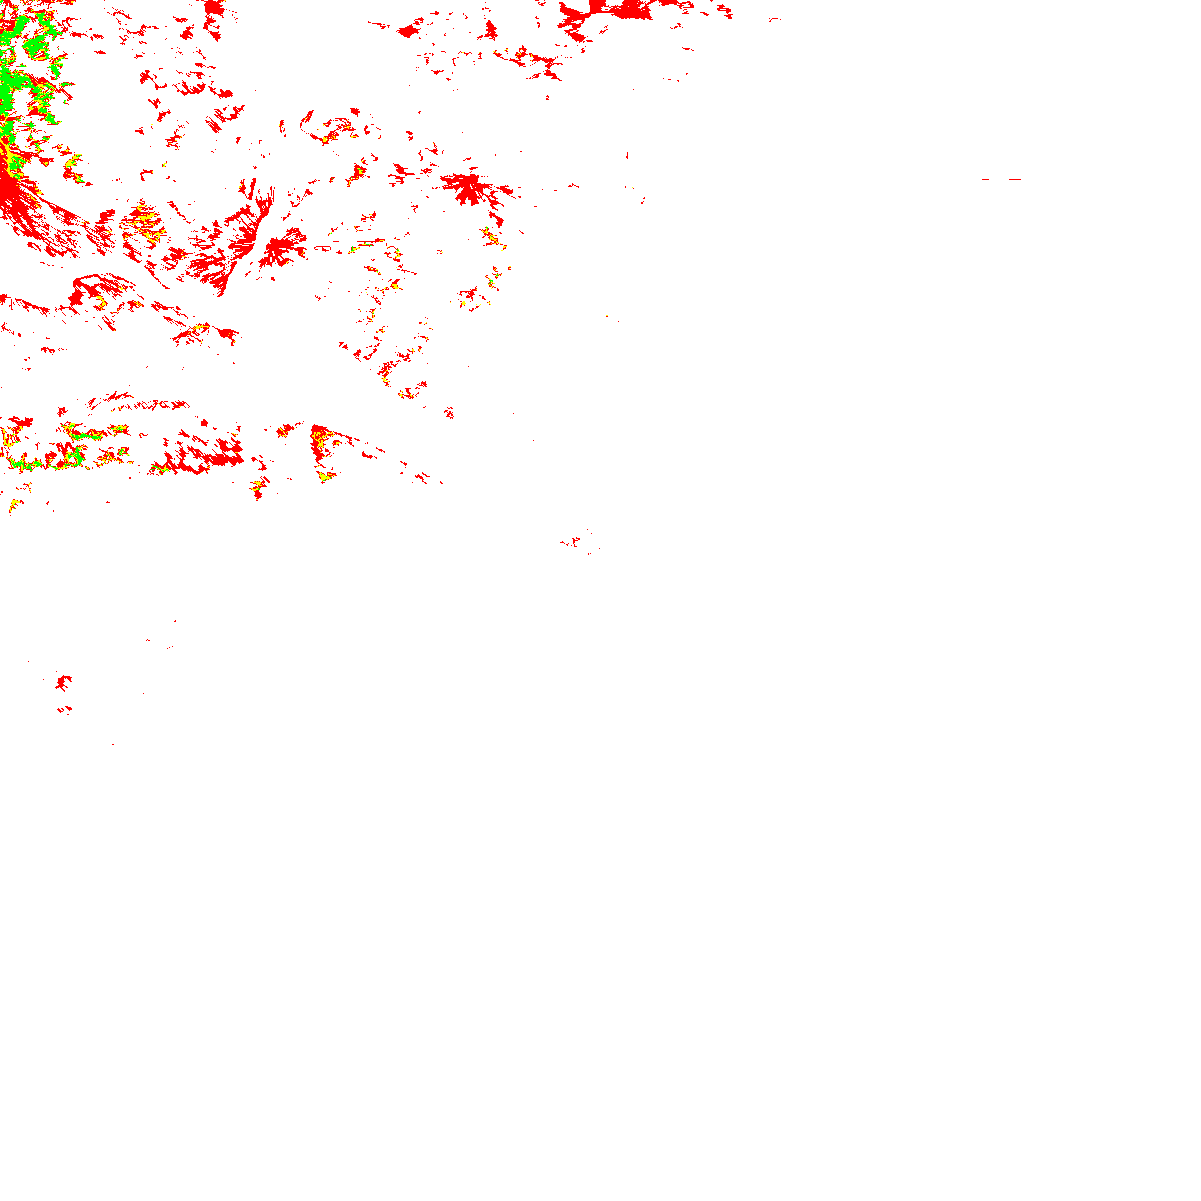
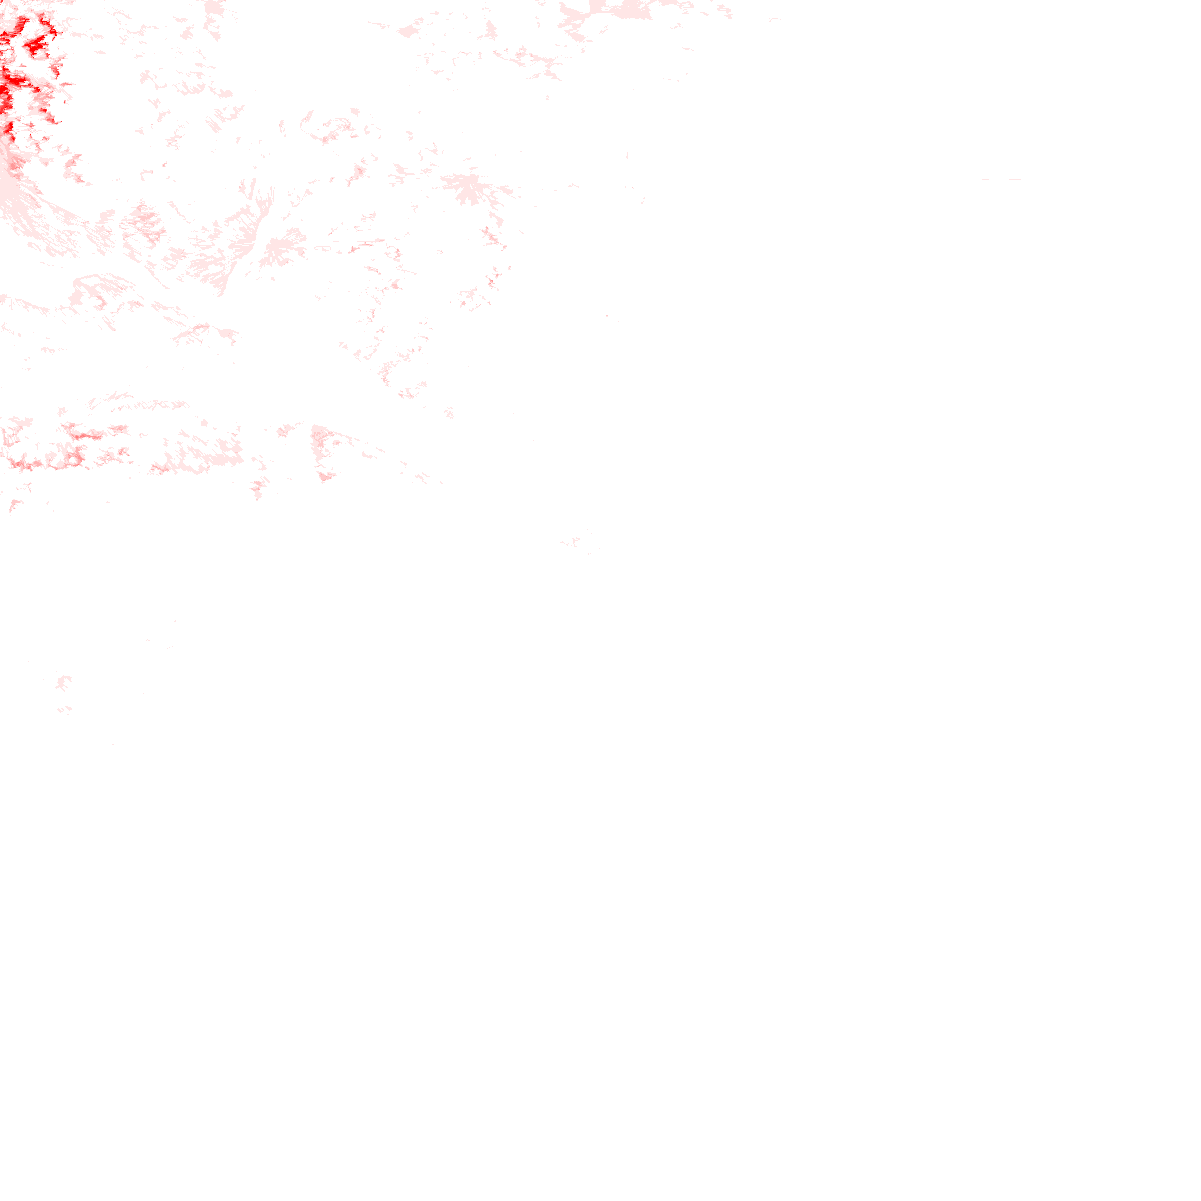
Update map tiles and enhance KMZ file download functionality
- Updated tile list in tiles.json for consistency.
- Improved download_file function to skip existing files and added multithreading for efficiency.
- Increased max opaque count for color generation in overlapping pixels.

diff --git a/src/generate_map_tiles.py b/src/generate_map_tiles.py
@@ -5,6 +5,8 @@ import zipfile
 import re
 import json
 
+import concurrent.futures
+
 from io import BytesIO
 from PIL import Image
 
@@ -23,7 +25,6 @@ def download_kmz_files():
     creds = Credentials.from_service_account_file("credentials.json", scopes=SCOPES)
     service = build("drive", "v3", credentials=creds)
 
-    # Call the Drive v3 API
     results = (
         service.files()
         .list(
@@ -38,23 +39,32 @@ def download_kmz_files():
     if not items:
         print("No files found.")
         return
-    print("Files:")
     os.makedirs("kmz", exist_ok=True)
     downloaded_files = []
-    for item in items:
-        print(f"{item['name']} ({item['id']})")
+
+    def download_file(item):
         if item["name"].lower().endswith(".kmz"):
             file_id = item["id"]
             file_name = item["name"]
+            file_path = os.path.join("kmz", file_name)
+            if os.path.exists(file_path):
+                print(f"{file_name} already exists, skipping.")
+                return file_name
             request = service.files().get_media(fileId=file_id)
-            fh = io.FileIO(os.path.join("kmz", file_name), "wb")
+            fh = io.FileIO(file_path, "wb")
             downloader = MediaIoBaseDownload(fh, request)
             done = False
             print(f"Downloading {file_name}...")
             while not done:
                 status, done = downloader.next_chunk()
             print(f"Downloaded {file_name} to kmz/")
-            downloaded_files.append(file_name)
+            return file_name
+        return None
+
+    with concurrent.futures.ThreadPoolExecutor(max_workers=5) as executor:
+        results = list(executor.map(download_file, items))
+        downloaded_files = [r for r in results if r]
+
     return downloaded_files
 
 
@@ -118,15 +128,16 @@ def collect_cloakp_images_from_kmz_files():
 
 def get_color_from_overlapping_pixels(opaque_count):
     base_color = (255, 0, 0, 0)
-    max_opaque_count = 7
+    max_opaque_count = 10
     if opaque_count == 0:
         return (0, 0, 0, 0)  # Transparent
-    elif opaque_count > max_opaque_count:
-        return (255, 255, 255, 255)  # White for more than max count
-    else:
-        # Generate a color based on the count
-        alpha = int(255 * (opaque_count / max_opaque_count))
-        return (base_color[0], base_color[1], base_color[2], alpha)
+
+    # Generate a color based on the count
+    alpha = int(255 * (opaque_count / max_opaque_count))
+    # Ensure alpha is between 0 and 255
+    alpha = max(0, min(255, alpha))
+    # Return the base color with the calculated alpha
+    return (base_color[0], base_color[1], base_color[2], alpha)
 
 
 def generate_overlap_visualizations(cloakp_dict):
